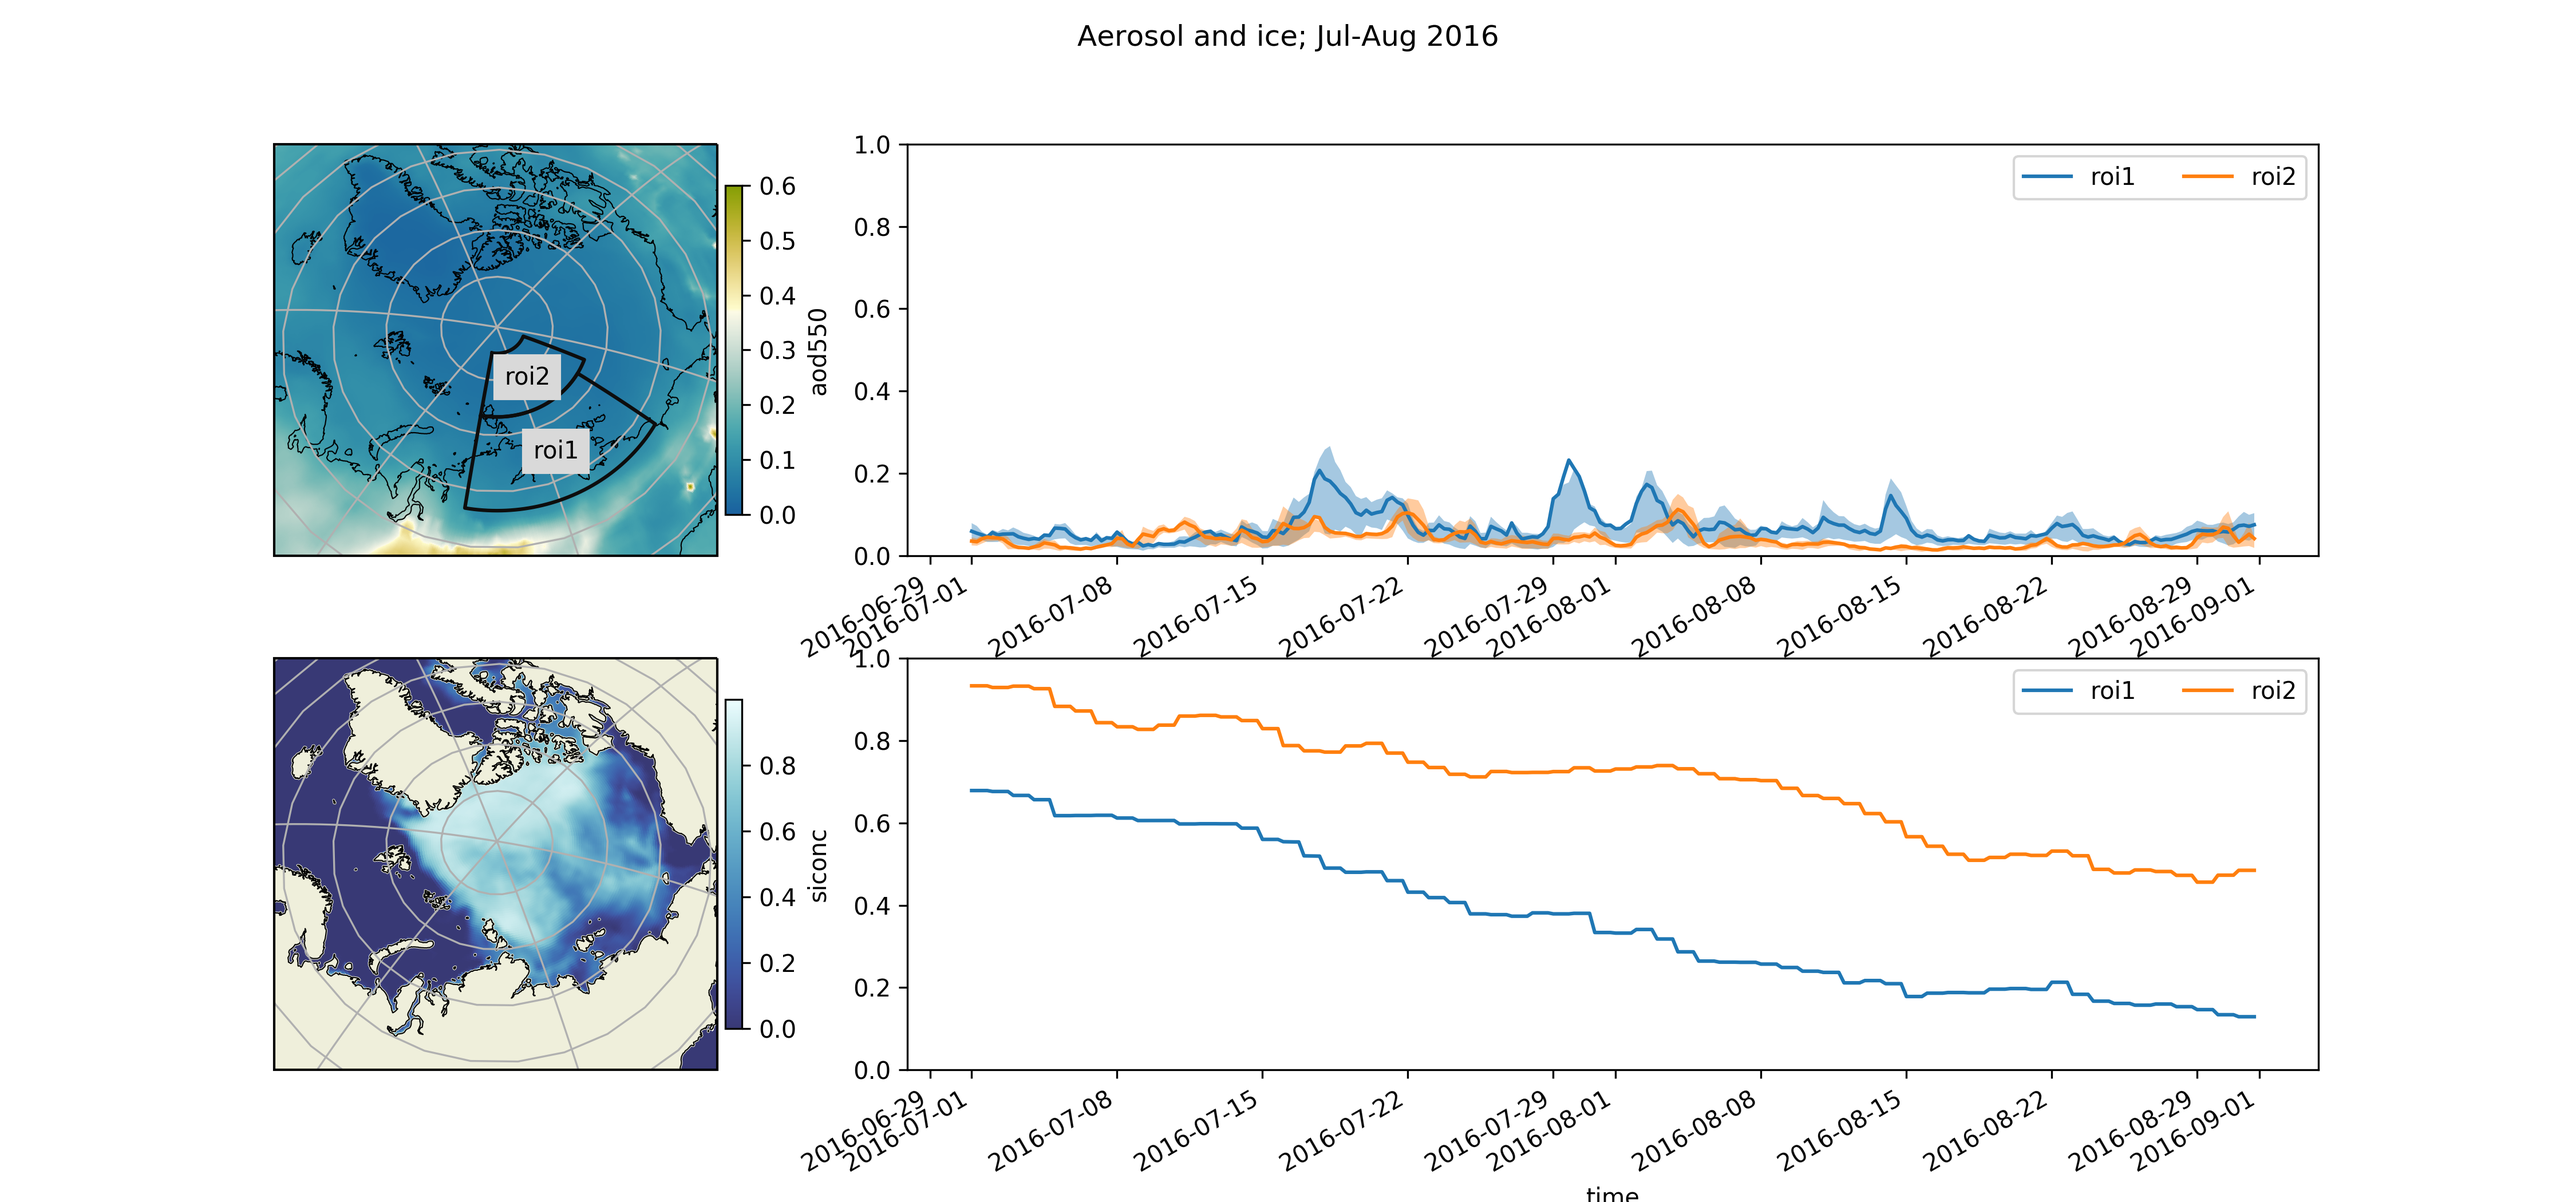
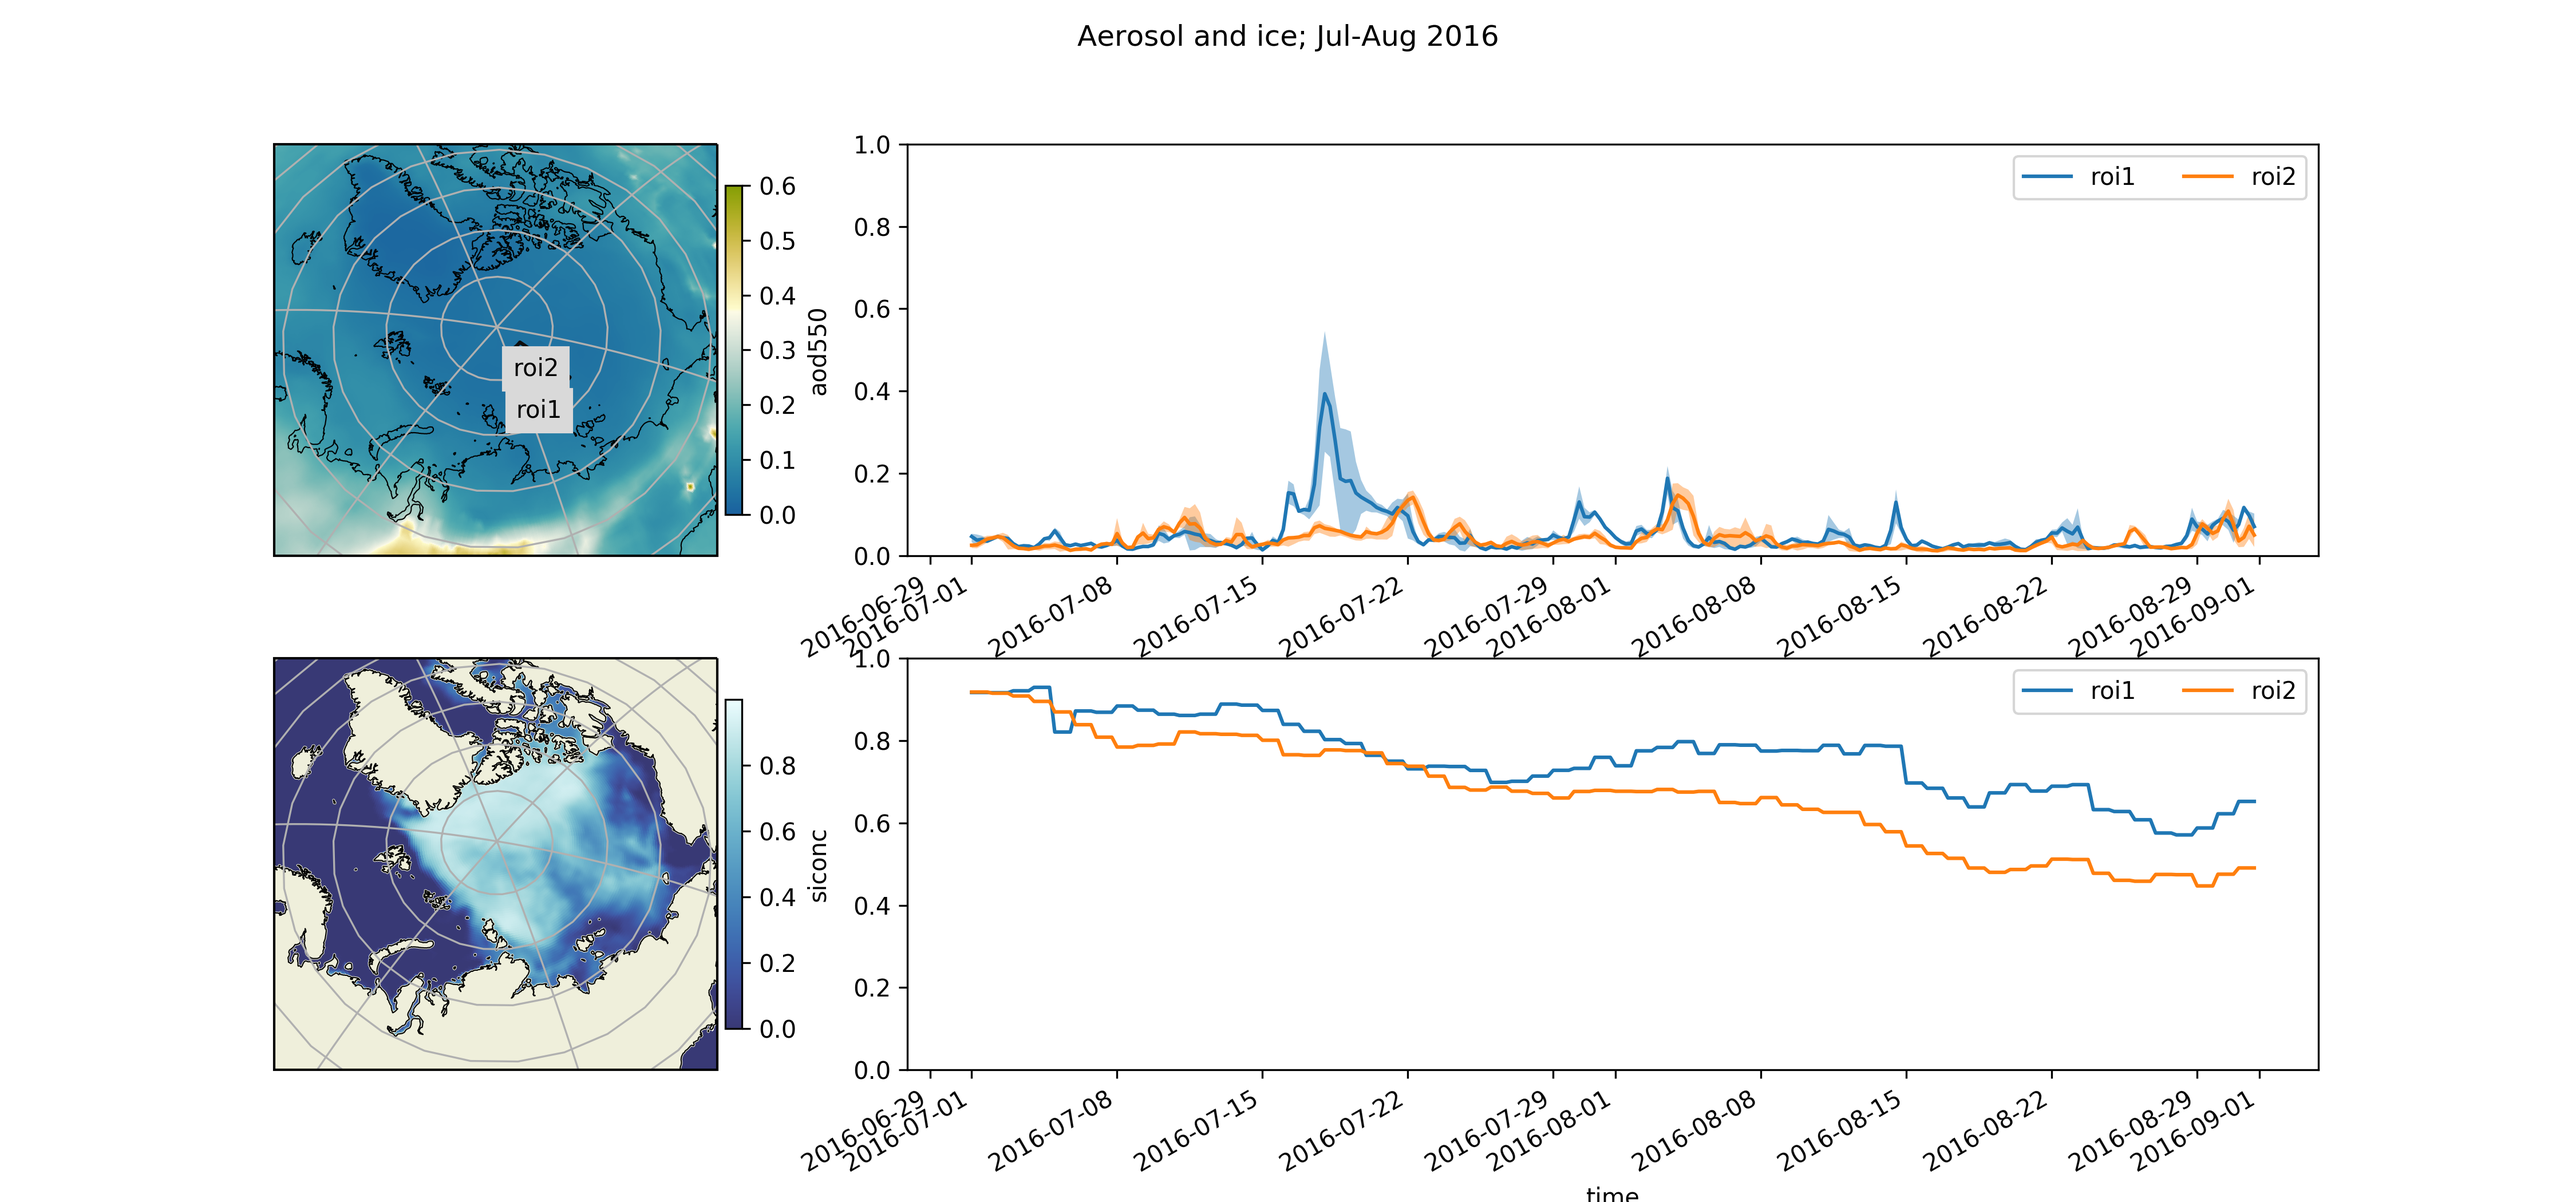
add 2018 2019

diff --git a/cams_visu/plot_cams.py b/cams_visu/plot_cams.py
@@ -10,13 +10,14 @@ import pandas as pd
 import matplotlib.pyplot as plt
 import matplotlib.gridspec as gridspec
 os.environ['HDF5_USE_FILE_LOCKING']='FALSE'
+plt.ioff()
 
 import xarray as xr
 import regionmask
 
 from matplotlib.backends.backend_pdf import PdfPages
 from cams_visu import utils as u
-
+anomaly = False
 generate_daily = False
 ofig = './figures'
 idir = '/local/AIX/tristan.harmel/project/ardyna/cams/data'
@@ -33,44 +34,45 @@ caero = cm.tools.crop_by_percent(cmap, 20, which='max')
 year = 2014
 
 aspect_ratio = 1
-years = np.arange(2014, 2018)
+years = np.arange(2018, 2020)
 rows = len(years)
-fig_clima, axs_clima = plt.subplots(nrows=rows, ncols=3, figsize=(15, 4 * rows * aspect_ratio))
+if anomaly:
+    fig_clima, axs_clima = plt.subplots(nrows=rows, ncols=3, figsize=(15, 4 * rows * aspect_ratio))
 
-# ---------------------------------------------------
-# generate averaged values for anomaly computations
-# ---------------------------------------------------
+    # ---------------------------------------------------
+    # generate averaged values for anomaly computations
+    # ---------------------------------------------------
 
-files = os.path.join(idir, 'cams_artic_jul_aug_*.nc')
-ds = xr.open_mfdataset(files, concat_dim='time')
-param='aod550'
+    files = os.path.join(idir, 'cams_artic_jul_aug_*.nc')
+    ds = xr.open_mfdataset(files, concat_dim='time')
+    param='aod550'
 
-climatology_mean = ds[param].groupby('time.month').mean('time')
-climatology_mean.to_netcdf('aod_climatology.nc')
-climatology_mean.plot(x='longitude', y='latitude', col='month', col_wrap=3)
+    climatology_mean = ds[param].groupby('time.month').mean('time')
+    climatology_mean.to_netcdf('aod_climatology.nc')
+    climatology_mean.plot(x='longitude', y='latitude', col='month', col_wrap=3)
 
 
-plt.figure(figsize=(15, 7))
-ax = plt.subplot(1, 2, 1, projection=crs)
-ax.set_extent(extent, crs=ccrs.PlateCarree())
-ax.add_feature(land_feat)
-ax.grid()
-ax.gridlines()
-ax.coastlines('50m', linewidth=0.5)
-ax.set_extent([-180, 180, 50, 90], crs=ccrs.PlateCarree())
-ax.coastlines()
-p = climatology_mean.isel(month=1).plot(ax=ax, transform=ccrs.PlateCarree(), cmap=caero,
-                                cbar_kwargs=dict(pad=.1, aspect=20, shrink=0.6))
+    plt.figure(figsize=(15, 7))
+    ax = plt.subplot(1, 2, 1, projection=crs)
+    ax.set_extent(extent, crs=ccrs.PlateCarree())
+    ax.add_feature(land_feat)
+    ax.grid()
+    ax.gridlines()
+    ax.coastlines('50m', linewidth=0.5)
+    ax.set_extent([-180, 180, 50, 90], crs=ccrs.PlateCarree())
+    ax.coastlines()
+    p = climatology_mean.isel(month=1).plot(ax=ax, transform=ccrs.PlateCarree(), cmap=caero,
+                                    cbar_kwargs=dict(pad=.1, aspect=20, shrink=0.6))
 
-climatology_std = ds.groupby('time.month').std('time')
-stand_anomalies = xr.apply_ufunc(lambda x, m, s: (x - m) / s,
-                                ds.groupby('time.month'),
-                                climatology_mean, climatology_std)
+    climatology_std = ds.groupby('time.month').std('time')
+    stand_anomalies = xr.apply_ufunc(lambda x, m, s: (x - m) / s,
+                                    ds.groupby('time.month'),
+                                    climatology_mean, climatology_std)
 
-stand_anomalies.mean('location').to_dataframe()[['tmin', 'tmax']].plot()
+    stand_anomalies.mean('location').to_dataframe()[['tmin', 'tmax']].plot()
 
-file_aod_ave = 'aod_ave_'+str(years[0])+'_'+str(years[-1])+'.nc'
-file_ice_ave = 'ice_ave_'+str(years[0])+'_'+str(years[-1])+'.nc'
+    file_aod_ave = 'aod_ave_'+str(years[0])+'_'+str(years[-1])+'.nc'
+    file_ice_ave = 'ice_ave_'+str(years[0])+'_'+str(years[-1])+'.nc'
 
 first = True
 for idx, year in enumerate(years):
@@ -100,8 +102,8 @@ for idx, year in enumerate(years):
 aod_ave_ = aod_ave / (idx+1)
 ice_ave_ = ice_ave / (idx+1)
 
-aod_ave_.to_netcdf(file_aod_ave)
-ice_ave_.to_netcdf(file_ice_ave)
+# aod_ave_.to_netcdf(file_aod_ave)
+# ice_ave_.to_netcdf(file_ice_ave)
 
 # ---------------------------------------------------
 # plot timeseries for absolute and anomaly values
@@ -204,7 +206,7 @@ for idx, year in enumerate(years):
     ax.gridlines()
     ax.coastlines('50m', linewidth=0.5)
 
-    mask.plot(ax=ax, regions=[0, 1], add_ocean=False, coastlines=False, label='abbrev', )
+    mask.plot(ax=ax, regions=[0, 1], add_ocean=False, coastlines=False, label='abbrev' )
     p = aod_mean.plot(ax=ax, transform=ccrs.PlateCarree(), cmap=caero, cbar_kwargs=dict(pad=.01, aspect=20, shrink=0.8))
     p.set_clim(0, 0.6)
 
@@ -239,5 +241,5 @@ for idx, year in enumerate(years):
     plt.savefig(os.path.join(ofig, 'aot_ice_from_cams_era5_artic_' + str(year) + '.png'), dpi=300)
     plt.close()
 
-aod_mean_ = aod_mean_/(idx+1)
-ice_mean_ = ice_mean_/(idx+1)
+# aod_mean_ = aod_mean_/(idx+1)
+# ice_mean_ = ice_mean_/(idx+1)

diff --git a/cams_visu/cams_download.py b/cams_visu/cams_download.py
@@ -104,17 +104,17 @@ def download_erainterim(target, date, time='00:00:00', grid='0.125/0.125',
     server = None
     return
 
-for year in np.arange(2004,2018):
+for year in np.arange(2018,2020):
 
-    # target='/local/AIX/tristan.harmel/project/ardyna/cams/data/cams_artic_jul_aug_'+str(year)+'.nc'
-    # if os.path.isfile(target): continue
-    # print('downloading CAMS files...' + str(target))
-    # startDate = '%04d%02d%02d' % (year,7, 1)
-    # lastDate = '%04d%02d%02d' % (year,8,31)
-    # param='125.210/137.128/151.128/165.128/166.128/167.128/206.128/207.210/213.210/214.210/215.210/216.210/31.128/34.128'
-    # data_type='cams_reanalysis'
-    # requestDates = startDate + '/TO/' + lastDate
-    # download_erainterim(str(target), requestDates, param=param,data_type=data_type)
+    target='/local/AIX/tristan.harmel/project/ardyna/cams/data/cams_artic_jul_aug_'+str(year)+'.nc'
+    if os.path.isfile(target): continue
+    print('downloading CAMS files...' + str(target))
+    startDate = '%04d%02d%02d' % (year,7, 1)
+    lastDate = '%04d%02d%02d' % (year,8,31)
+    param='125.210/137.128/151.128/165.128/166.128/167.128/206.128/207.210/213.210/214.210/215.210/216.210/31.128/34.128'
+    data_type='cams_reanalysis'
+    requestDates = startDate + '/TO/' + lastDate
+    download_erainterim(str(target), requestDates, param=param,data_type=data_type)
 
 
     target='/local/AIX/tristan.harmel/project/ardyna/cams/data/era5_ice_artic_jul_aug_'+str(year)+'.nc'

diff --git a/figures/README.md b/figures/README.md
@@ -28,3 +28,7 @@
 ![image](./aot_ice_from_cams_era5_artic_2016.png)
 ##  2017
 ![image](./aot_ice_from_cams_era5_artic_2017.png)
+##  2018
+![image](./aot_ice_from_cams_era5_artic_2018.png)
+##  2019
+![image](./aot_ice_from_cams_era5_artic_2019.png)
